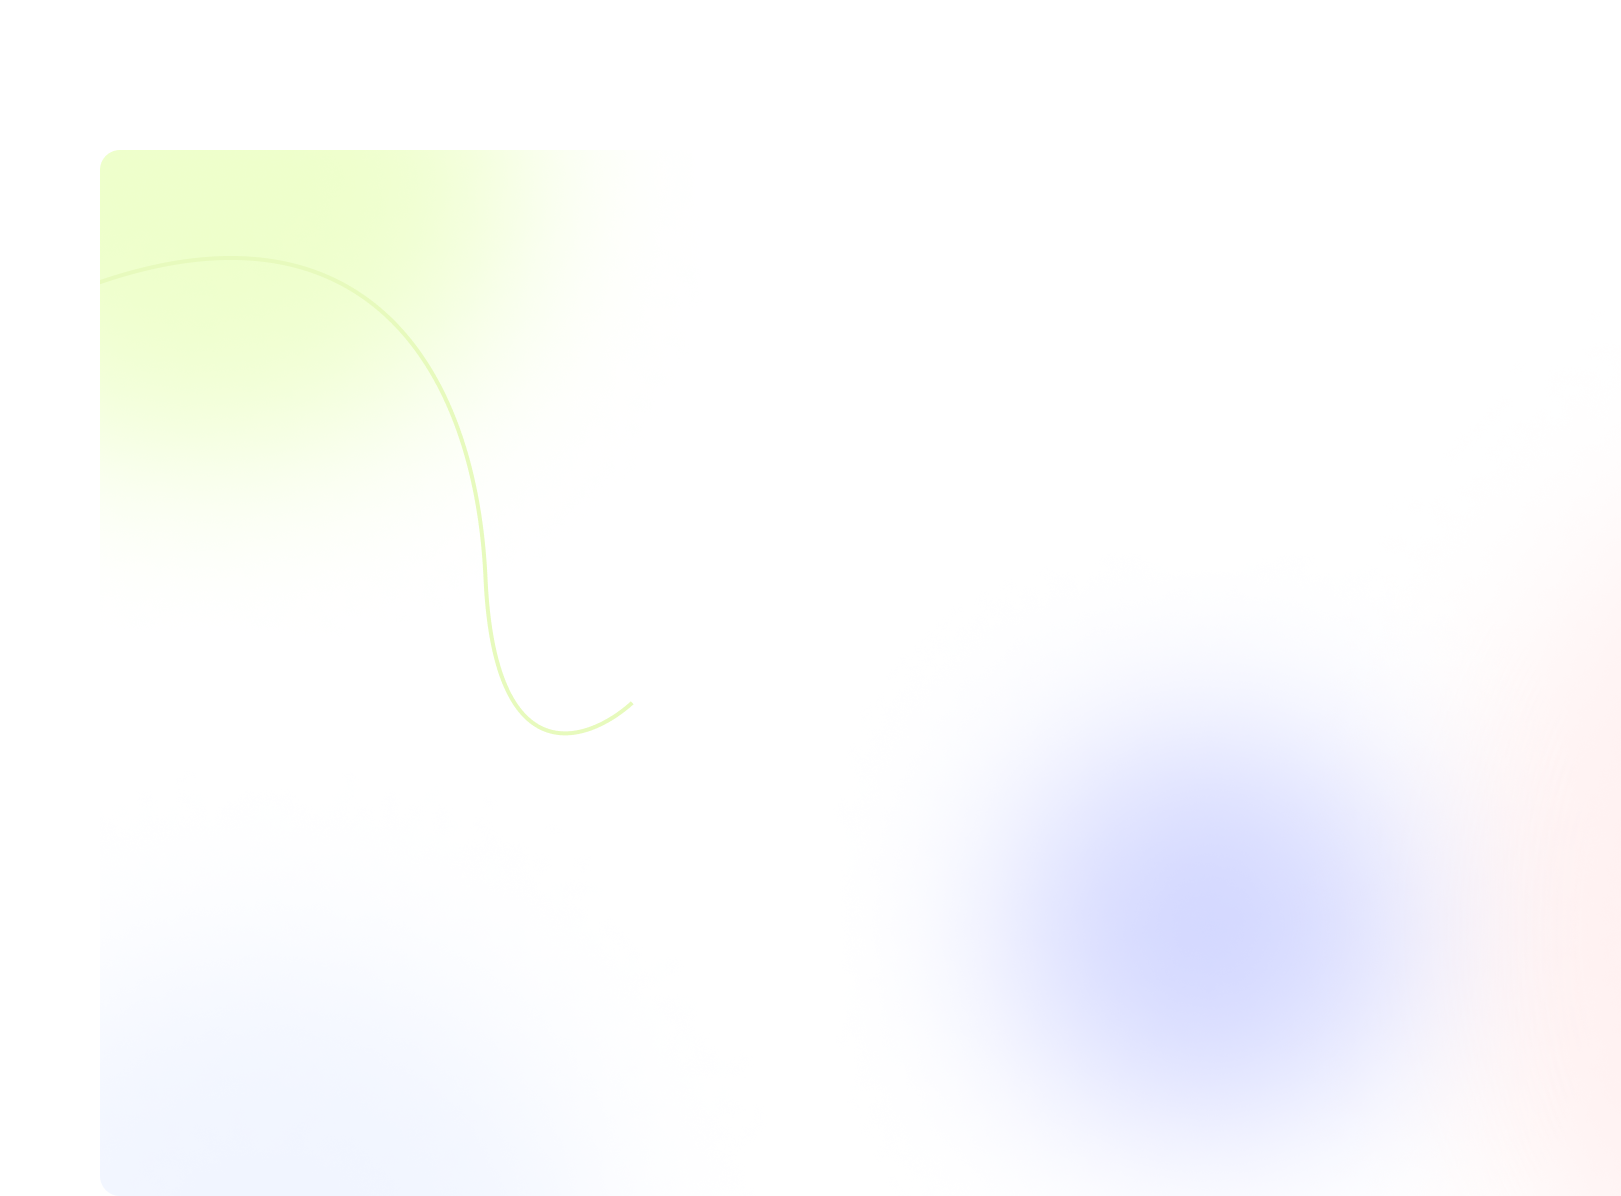
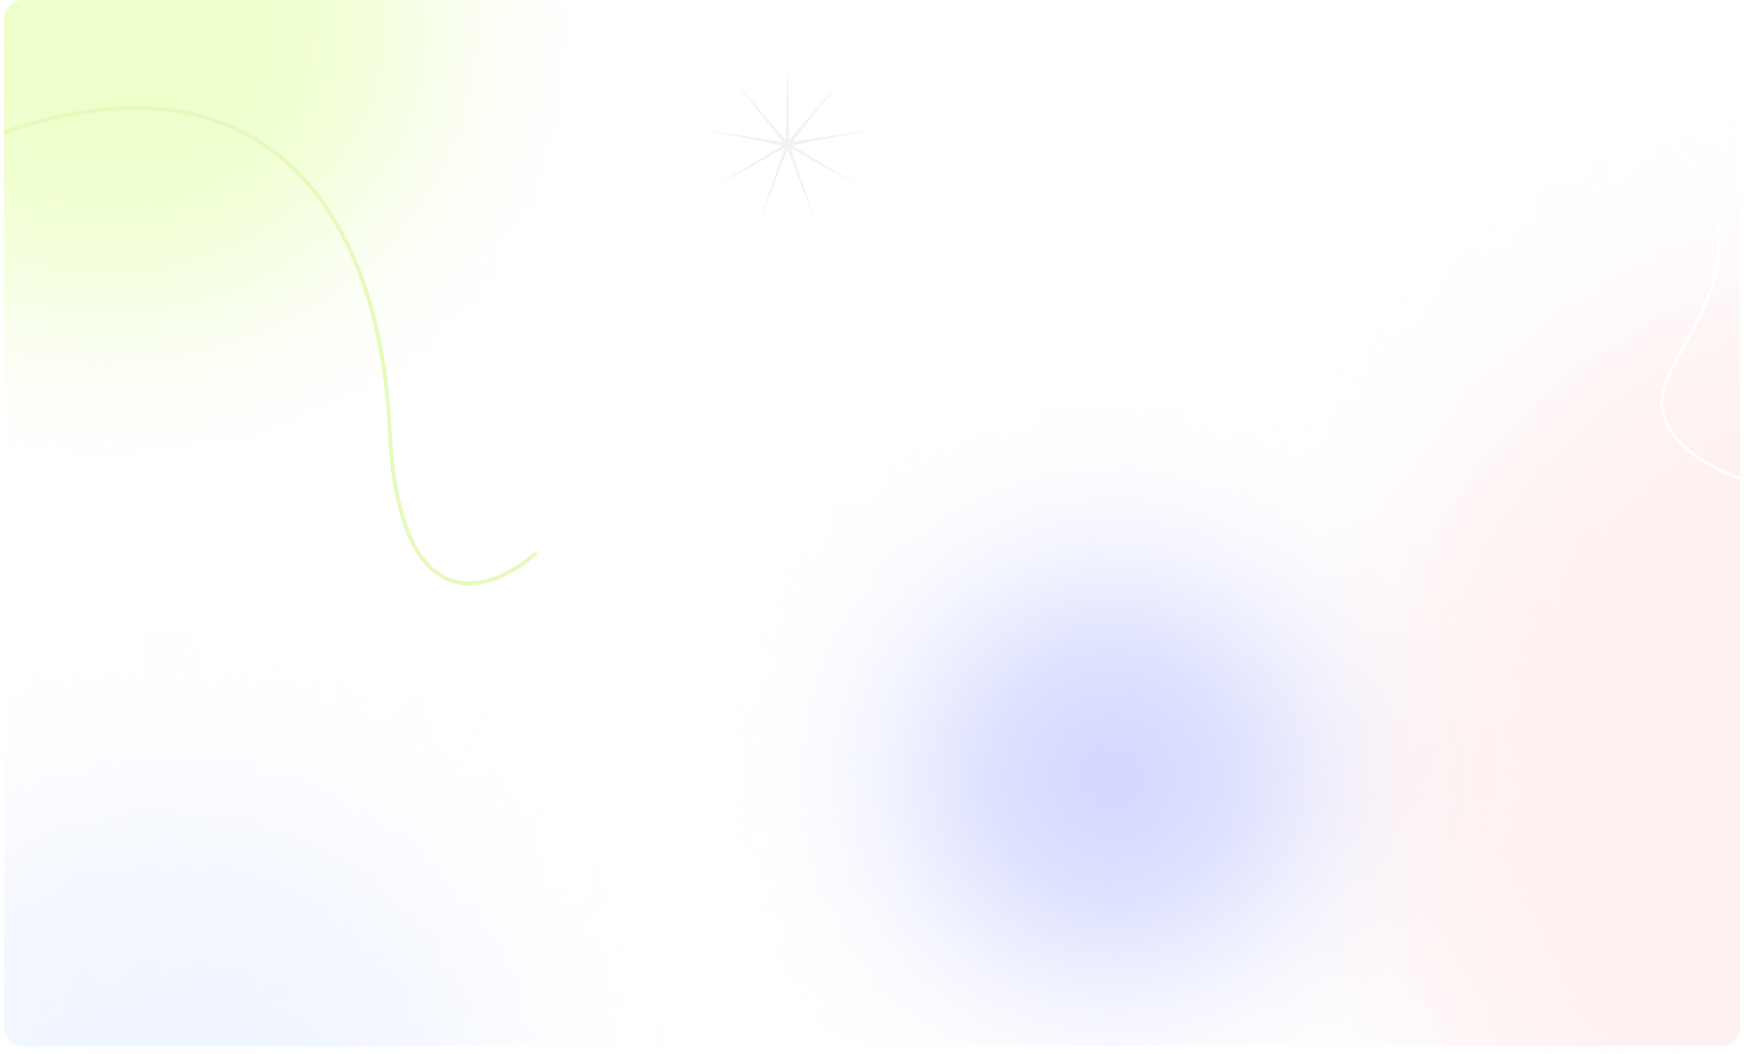
update image

diff --git a/src/pages/home/banner/banner.tsx b/src/pages/home/banner/banner.tsx
@@ -1,4 +1,3 @@
-import backGround from "../../../assets/Background.png";
 import iconHand from "../../../assets/Icon_hand.png";
 import Avartar from "../../../assets/Avartar.png";
 import "./index.scss";
@@ -7,8 +6,7 @@ const Banner = () => {
   return (
     <>
       <div className="flex text-center w-[100%] justify-center">
-        <div className="w-[100%] h-[500px] relative flex container-banner items-center">
-          {/* <img className="w-[100%]" src={backGround} alt="back-ground"></img> */}
+        <div className="w-[100%] h-[500px] relative flex p-[10rem 0] container-banner items-center bg-[url(/src/assets/Background.png)] bg-[100%] h-[100%]">
           <div className="flex-[0.5]">
             <p className="font-semibold text-[30px] font-[fraunces] flex justify-center items-center">
               Hello, world!{" "}
@@ -20,8 +18,8 @@ const Banner = () => {
               I'm Thu Sang! a developer
             </p>
           </div>
-          <div className="flex-[0.5]">
-            <img className="w-[100%]" src={Avartar} alt="avatar"></img>
+          <div className="flex-[0.5] ">
+            <img className="w-[90%]" src={Avartar} alt="avatar"></img>
           </div>
         </div>
       </div>

diff --git a/src/pages/home/banner/index.scss b/src/pages/home/banner/index.scss
@@ -1,4 +1,4 @@
 .container-banner {
-  background-image: url(../../../assets/Background.png);
-  background-size: 100% 100%;
+  //   background-image: url(../../../assets/Background.png);
+  //   background-size: 100% 100%;
 }
